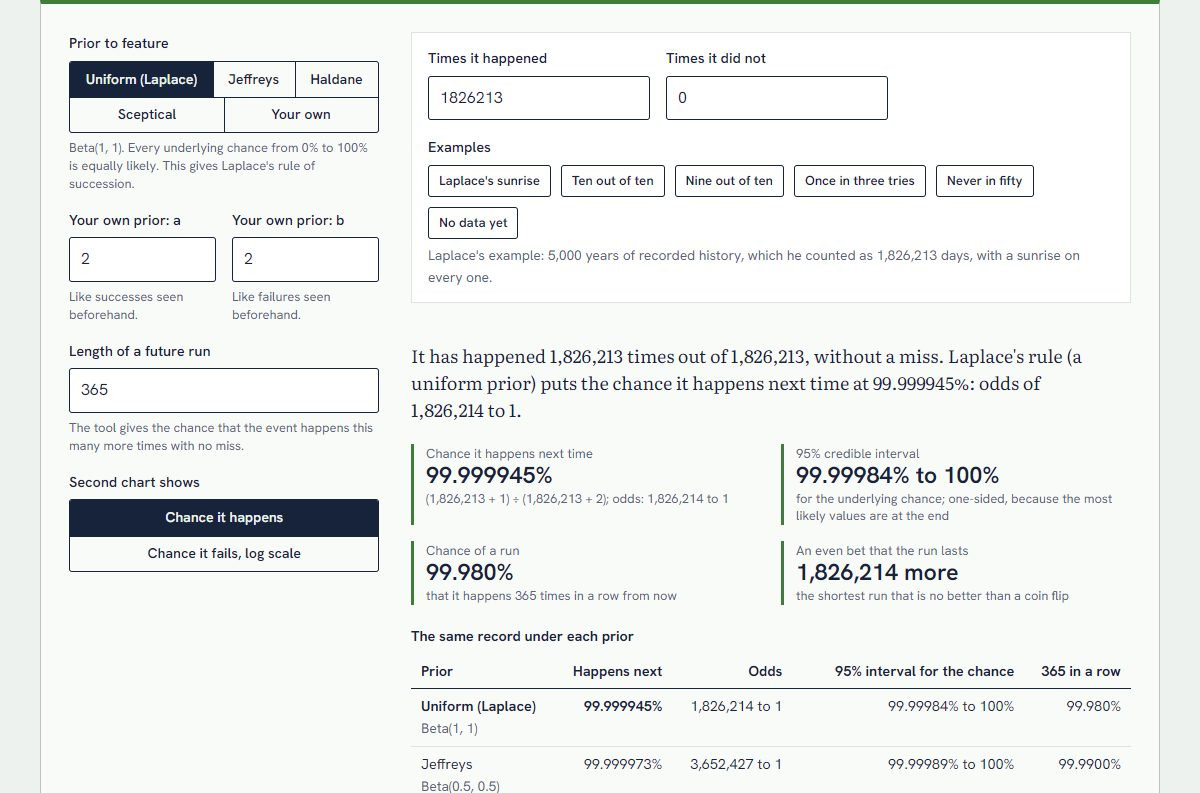
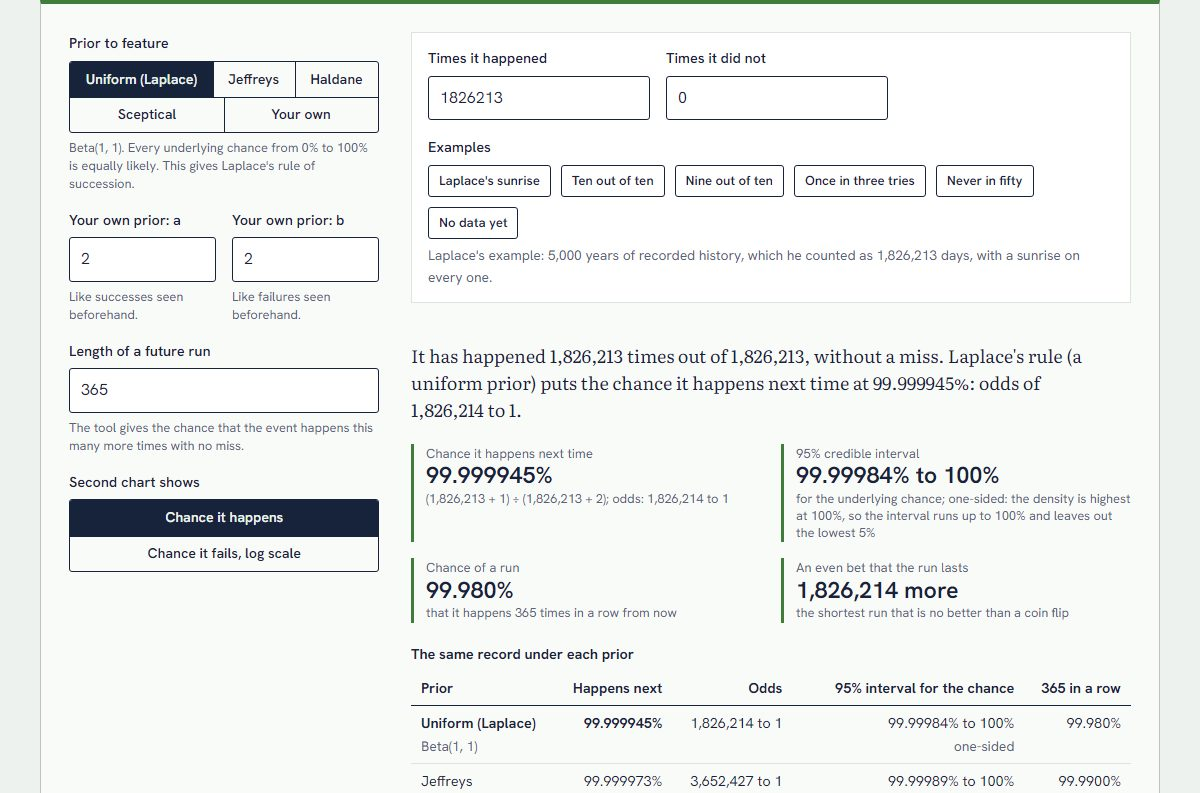
Review project 30: exact long-run chances, state the interval rule, clearer extremes

diff --git a/365projects/30/app.js b/365projects/30/app.js
@@ -5,28 +5,51 @@ import { PRIORS, EXAMPLES, MAX_COUNT, MAX_PRIOR, MAX_RUN, problem, betaQuantile,
 mount();
 
 /* ---------- formatting ---------- */
-/** A chance with enough decimals to stay distinct from 0% and 100%. */
-function pct(p) {
+/** A chance with enough decimals to stay distinct from 0% and 100%, and at least `min` of them. */
+function pct(p, min = 0) {
   if (p == null || !Number.isFinite(p)) return "–";
   if (p === 0 || p === 1) return p ? "100%" : "0%";
   const q = Math.min(p, 1 - p) * 100;
   if (q < 1e-8) return p < 0.5 ? "under 0.00000001%" : "over 99.99999999%";
-  return `${fmt.num(p * 100, q >= 1 ? 1 : Math.ceil(-Math.log10(q)) + 1)}%`;
+  return `${fmt.num(p * 100, Math.max(min, q >= 1 ? 1 : Math.ceil(-Math.log10(q)) + 1))}%`;
 }
 const big = (x) => (x >= 1e12 ? fmt.compact(x) : x >= 1000 ? fmt.int(Math.round(x)) : fmt.sig(x, 3));
 function oddsText(o) {
   if (o == null) return "–";
   if (o === Infinity) return "certain";
   if (o === 0) return "impossible";
-  if (o === 1) return "evens";
-  return o > 1 ? `${big(o)} to 1` : `${big(1 / o)} to 1 against`;
+  const text = big(o >= 1 ? o : 1 / o);
+  if (text === "1") return o === 1 ? "evens" : "about evens"; // never "1 to 1 against"
+  return o > 1 ? `${text} to 1` : `${text} to 1 against`;
 }
 const betaName = (p) => `Beta(${fmt.sig(p.a, 4)}, ${fmt.sig(p.b, 4)})`;
 const times = (k) => (k === 1 ? "once" : `${fmt.int(k)} times`);
 function intervalText(r) {
-  if (r.interval) return `${pct(r.interval.lo)} to ${pct(r.interval.hi)}`;
-  if (r.next == null) return "–";
-  return r.B === 0 ? "none: all the weight is on 100%" : "none: all the weight is on 0%";
+  if (!r.interval) return r.next == null ? "–" : r.B === 0 ? "none: all the weight is on 100%" : "none: all the weight is on 0%";
+  const { lo, hi, kind } = r.interval;
+  // Enough decimals to tell the two ends apart (two figures of the interval's width), so a narrow interval is never
+  // printed as "50.0% to 50.0%".
+  const width = (hi - lo) * 100;
+  const d = width > 0 && width < 10 ? Math.min(10, Math.ceil(-Math.log10(width)) + 1) : 0;
+  // An end too close to 100% or 0% for the computer to tell apart from it is still not 100% or 0%.
+  const low = kind === "upper" && lo === 1 ? "over 99.99999999%" : pct(lo, d);
+  const high = kind === "lower" && hi === 0 ? "under 0.00000001%" : pct(hi, d);
+  return `${low} to ${high}`;
+}
+/** How the interval was cut, said exactly: it is central unless the density is highest at one end alone. */
+const intervalRule = (r) => (r.interval.kind === "central" ? "central: 2.5% is left out at each end"
+  : r.interval.kind === "upper" ? "one-sided: the density is highest at 100%, so the interval runs up to 100% and leaves out the lowest 5%"
+    : "one-sided: the density is highest at 0%, so the interval runs down to 0% and leaves out the highest 5%");
+/** A run's chance. A positive chance too small for the computer to hold is shown as small, not as 0%. */
+const runText = (r) => pct(r.run === 0 && r.A > 0 ? Number.MIN_VALUE : r.run);
+/** The even-bet run length and the line under it. Lengths past ten million are good to about three figures. */
+function evenText(r) {
+  const e = r.evenRun;
+  if (e == null) return ["–", ""];
+  if (e === Infinity && r.B === 0) return ["for ever", "no run is long enough to become an even bet"];
+  if (e === Infinity) return ["over 10¹⁵ more", "the shortest run that is no better than a coin flip is longer than a thousand million million, and the page stops counting there"];
+  if (e === 1) return ["1 more", "the very next time is already no better than a coin flip"];
+  return [e >= 1e7 ? `about ${fmt.compact(e)} more` : `${fmt.int(e)} more`, "the shortest run that is no better than a coin flip"];
 }
 
 const first = EXAMPLES[0];
@@ -78,6 +101,7 @@ const tRun = stat("Chance of a run");
 const tEven = stat("An even bet that the run lasts");
 const tiles = [tNext, tInterval, tRun, tEven];
 const tableBox = el("div");
+const tableNote = el("p", { class: "small muted", text: "Each interval is the central 95% of that prior's belief about the underlying chance, with 2.5% left out at each end, unless the density is highest at 100% alone or at 0% alone. Those intervals are marked “one-sided”: they run to that end and leave out 5% at the other, so that the most probable values are never the ones left out." });
 const densityBox = el("div");
 const densityNote = el("p", { class: "small muted" });
 const convBox = el("div");
@@ -85,7 +109,7 @@ const convNote = el("p", { class: "small muted" });
 
 const top = el("div", { class: "out lab-top" },
   el("div", { class: "panel record" }, el("div", { class: "pair" }, fields.s.el, fields.f.el), el("div", { class: "field" }, el("div", { class: "lab" }, el("span", { text: "Examples" })), examples, exampleNote)),
-  message, verdict, el("div", { class: "stats" }, tiles.map((t) => t.el)), tableBox);
+  message, verdict, el("div", { class: "stats" }, tiles.map((t) => t.el)), el("div", {}, tableBox, tableNote));
 const controls = el("div", { class: "controls" }, priorSeg.el, el("div", { class: "pair" }, fields.a.el, fields.b.el), fields.m.el, viewSeg.el);
 const rest = el("div", { class: "out lab-rest" }, el("div", {}, densityBox, densityNote), el("div", {}, convBox, convNote));
 $("#app").append(el("div", { class: "lab-grid" }, top, controls, rest));
@@ -98,6 +122,7 @@ function blank(text) {
   verdict.textContent = "";
   for (const t of tiles) t.set("–", "");
   tableBox.replaceChildren();
+  tableNote.hidden = true;
   rest.hidden = true;
 }
 
@@ -106,7 +131,7 @@ function update() {
   const bad = problem(state);
   if (bad) return blank(bad);
   message.replaceChildren();
-  rest.hidden = false;
+  rest.hidden = tableNote.hidden = false;
 
   const n = s + f;
   const list = priors();
@@ -123,17 +148,16 @@ function update() {
   verdict.textContent = featured.next == null
     ? `${record} ${who} gives no answer here: the formula comes to 0 ÷ 0. It has nothing to say until there is data.`
     : !featured.proper
-      ? `${record} ${who} puts the chance it happens next time at ${pct(featured.next)}. With no weight held back for the outcome that has not been seen, it treats the record as proof.`
+      ? `${record} ${who} puts the chance it happens next time at ${pct(featured.next)}. ${n === 0 ? "It gives the other outcome no weight at all, so it is certain before anything has been observed." : "With no weight held back for the outcome that has not been seen, it treats the record as proof."}`
       : `${record} ${who} puts the chance it happens next time at ${pct(featured.next)}${featured.odds >= 1000 || featured.odds <= 0.001 ? `: odds of ${oddsText(featured.odds)}` : ""}.`;
 
   /* Headline numbers for the featured prior. */
   tNext.set(pct(featured.next), featured.next == null ? "0 ÷ 0" : `(${fmt.int(s)} + ${fmt.sig(fp.a, 4)}) ÷ (${fmt.int(n)} + ${fmt.sig(fp.a + fp.b, 4)}); odds: ${oddsText(featured.odds)}`);
   tInterval.set(featured.interval ? intervalText(featured) : "–", featured.interval
-    ? `for the underlying chance${featured.interval.kind === "central" ? "" : "; one-sided, because the most likely values are at the end"}`
+    ? `for the underlying chance; ${intervalRule(featured)}`
     : featured.next == null ? "" : "this is not a proper distribution, so it has no interval");
-  tRun.set(pct(featured.run), `that it happens ${times(m)} in a row from now`);
-  tEven.set(featured.evenRun == null ? "–" : featured.evenRun === Infinity ? "for ever" : `${big(featured.evenRun)} more`,
-    featured.evenRun == null ? "" : featured.evenRun === Infinity ? "no run is long enough to become an even bet" : featured.evenRun === 1 ? "the very next time is already no better than a coin flip" : "the shortest run that is no better than a coin flip");
+  tRun.set(runText(featured), `that it happens ${times(m)} in a row from now`);
+  tEven.set(...evenText(featured));
 
   /* Every prior side by side. */
   const mark = (r, text) => (r === featured ? el("strong", { text }) : text);
@@ -145,7 +169,8 @@ function update() {
     ],
     rows: results.map((r) => ({
       prior: el("span", {}, mark(r, r.prior.label), el("br"), el("span", { class: "small muted", text: betaName(r.prior) })),
-      next: mark(r, pct(r.next)), odds: oddsText(r.odds), interval: intervalText(r), run: pct(r.run),
+      next: mark(r, pct(r.next)), odds: oddsText(r.odds), run: runText(r),
+      interval: r.interval && r.interval.kind !== "central" ? el("span", {}, intervalText(r), el("br"), el("span", { class: "small muted", text: "one-sided" })) : intervalText(r),
     })),
   }));
 

diff --git a/365projects/30/index.html b/365projects/30/index.html
@@ -67,11 +67,11 @@
       <h3>Haldane's prior</h3>
       <p>Beta(0, 0) is the limit of ever weaker priors and is not a probability distribution: its density, 1 ÷ (<var>p</var>(1 − <var>p</var>)), has infinite area. The posterior Beta(<var>s</var>, <var>f</var>) becomes a real distribution only once the record holds at least one success and one failure. Before that the tool reports the limiting value of the formula, <var>s</var> ÷ <var>n</var>, which is 100% after any unbroken run and 0 ÷ 0 with no data, and it shows no interval and no curve. This is the prior that takes a single sunrise as proof that the sun always rises.</p>
       <h3>The credible interval</h3>
-      <p>The interval is the range that holds 95% of the posterior. Its ends are quantiles of the Beta distribution, found by bisection on the regularised incomplete beta function, which the tool evaluates with a continued fraction. Normally 2.5% is left out at each end. When the posterior density is highest at 0% or at 100%, as it is after an unbroken run, an equal-tailed interval would leave out the most probable values, so the tool gives the one-sided interval that includes that end. For an unbroken run of <var>n</var> under the uniform prior the interval runs from 0.05<sup>1 ÷ (<var>n</var> + 1)</sup> to 100%. For an event that has never happened in <var>n</var> trials it runs from 0% up to 1 − 0.05<sup>1 ÷ (<var>n</var> + 1)</sup>, which is close to the "rule of three", 3 ÷ <var>n</var>.</p>
+      <p>The interval is the range that holds 95% of the posterior. Its ends are quantiles of the Beta distribution, found by bisection on the regularised incomplete beta function, which the tool evaluates with a continued fraction. Normally the interval is central: 2.5% is left out at each end. The exception is a posterior whose density is highest at 100% alone or at 0% alone, which is the case when it never falls as <var>p</var> rises (<var>A</var> ≥ 1 and <var>B</var> ≤ 1, writing <var>A</var> = <var>a</var> + <var>s</var> and <var>B</var> = <var>b</var> + <var>f</var>) or never rises (<var>A</var> ≤ 1 and <var>B</var> ≥ 1), as after an unbroken run under the uniform or Jeffreys' prior. A central interval would then leave out the most probable values, so the tool gives the one-sided interval that runs to that end and leaves out 5% at the other, and says so beside the interval. The flat Beta(1, 1) has no highest point and a density that climbs towards both ends (<var>A</var> and <var>B</var> both below 1, such as Jeffreys' prior before any data) has two, so both keep the central interval. For an unbroken run of <var>n</var> under the uniform prior the interval runs from 0.05<sup>1 ÷ (<var>n</var> + 1)</sup> to 100%. For an event that has never happened in <var>n</var> trials it runs from 0% up to 1 − 0.05<sup>1 ÷ (<var>n</var> + 1)</sup>, which is close to the "rule of three", 3 ÷ <var>n</var>.</p>
       <h3>A run of successes</h3>
       <p>Write <var>A</var> = <var>a</var> + <var>s</var> and <var>B</var> = <var>b</var> + <var>f</var>. Each success raises the chance of the next, so the probability that the next <var>m</var> trials all succeed is a product of <var>m</var> different terms:</p>
       <p class="eq">P(<var>m</var> in a row) = <var>A</var> ÷ (<var>A</var> + <var>B</var>) × (<var>A</var> + 1) ÷ (<var>A</var> + <var>B</var> + 1)<br>&nbsp;&nbsp;&nbsp; × … × (<var>A</var> + <var>m</var> − 1) ÷ (<var>A</var> + <var>B</var> + <var>m</var> − 1)</p>
-      <p>The tool computes it from log-gamma functions so that runs of a billion are no harder than runs of ten. Under Laplace's rule after an unbroken run it simplifies to (<var>n</var> + 1) ÷ (<var>n</var> + <var>m</var> + 1), which reaches one half at <var>m</var> = <var>n</var> + 1: a run is an even bet to last about as long again as it already has. The last tile reports that length for the featured prior. The product falls towards zero as <var>m</var> grows, so no finite record makes "it will always happen" probable under any of these priors.</p>
+      <p>The tool computes it from log-gamma functions so that runs of a billion are no harder than runs of ten; the answer is good to about eight significant figures. A chance too small for the computer to hold is shown as "under 0.00000001%", never as zero. Under Laplace's rule after an unbroken run it simplifies to (<var>n</var> + 1) ÷ (<var>n</var> + <var>m</var> + 1), which reaches one half at <var>m</var> = <var>n</var> + 1: a run is an even bet to last about as long again as it already has. The last tile reports that length for the featured prior: exactly up to ten million, to three figures beyond that, and as "over 10<sup>15</sup>" once the search passes a thousand million million. The product falls towards zero as <var>m</var> grows, so no finite record makes "it will always happen" probable under any of these priors.</p>
       <h3>The charts</h3>
       <p>The first chart draws the posterior density for every prior that gives a proper one, on an axis that runs from the lowest 0.1% point to the highest 99.9% point among them. For the sunrise that is a window about a thousandth of a percentage point wide, just below 100%. The second chart recomputes P(next) for records running from 1 observation to at least ten times the length of yours, keeping your success rate fixed. Its other view shows the chance of failure, (<var>b</var> + failures) ÷ (<var>a</var> + <var>b</var> + observations), on a log scale. After an unbroken run of <var>k</var> that is <var>b</var> ÷ (<var>a</var> + <var>b</var> + <var>k</var>), so two priors' answers stay in the ratio of their <var>b</var>s however large <var>k</var> becomes. That is why the lines run parallel and never meet.</p>
     </section>
@@ -104,13 +104,14 @@
       <h2>Sources</h2>
       <ul class="refs">
         <li>Hume, D. (1748). <em>An Enquiry Concerning Human Understanding</em>, section IV.</li>
-        <li>Laplace, P.-S. (1814). <em>Essai philosophique sur les probabilités</em>. In English as <em>A Philosophical Essay on Probabilities</em>, translated by F. W. Truscott and F. L. Emory. The source of the sunrise example and its 1,826,213 days.</li>
+        <li>Laplace, P.-S. (1814). <em>Essai philosophique sur les probabilités</em>. In English as <em>A Philosophical Essay on Probabilities</em>, translated by F. W. Truscott and F. L. Emory (Wiley, 1902). The source of the sunrise example and its 1,826,213 days.</li>
         <li>Russell, B. (1912). <em>The Problems of Philosophy</em>, chapter 6, "On induction".</li>
-        <li>Haldane, J. B. S. (1932). A note on inverse probability. <em>Proceedings of the Cambridge Philosophical Society</em>.</li>
-        <li>de Finetti, B. (1937). La prévision: ses lois logiques, ses sources subjectives. <em>Annales de l'Institut Henri Poincaré</em>, 7, 1-68.</li>
-        <li>Jeffreys, H. (1939). <em>Theory of Probability</em>. Oxford University Press.</li>
+        <li>Haldane, J. B. S. (1932). A note on inverse probability. <em>Mathematical Proceedings of the Cambridge Philosophical Society</em>, 28(1), 55-61.</li>
+        <li>de Finetti, B. (1937). La prévision: ses lois logiques, ses sources subjectives. <em>Annales de l'Institut Henri Poincaré</em>, 7(1), 1-68.</li>
+        <li>Jeffreys, H. (1939). <em>Theory of Probability</em>. Clarendon Press, Oxford.</li>
+        <li>Jeffreys, H. (1946). An invariant form for the prior probability in estimation problems. <em>Proceedings of the Royal Society of London, Series A</em>, 186(1007), 453-461. The rule that gives Beta(½, ½) for a chance.</li>
         <li>Goodman, N. (1955). <em>Fact, Fiction, and Forecast</em>. Harvard University Press.</li>
-        <li>Zabell, S. L. (1989). The rule of succession. <em>Erkenntnis</em>, 31, 283-321.</li>
+        <li>Zabell, S. L. (1989). The rule of succession. <em>Erkenntnis</em>, 31(2-3), 283-321.</li>
       </ul>
     </section>
   </main>

diff --git a/365projects/30/logic.js b/365projects/30/logic.js
@@ -102,13 +102,18 @@ export function betaQuantile(q, a, b) {
 
 /**
  * A credible interval for the underlying chance under Beta(A, B). Central (equal tails), except when the
- * density is highest at an end of the range: then the interval is one-sided and includes that end, so
+ * density is highest at just one end of the range: then the interval is one-sided and includes that end, so
  * that it never leaves out the most probable values. kind: "central" | "upper" | "lower".
+ *
+ * The density p^(A−1) (1−p)^(B−1) never falls as p rises when A >= 1 and B <= 1 (so it is highest at 100%), and
+ * never rises when A <= 1 and B >= 1 (highest at 0%). The flat Beta(1, 1) has no highest point, and a density that
+ * climbs towards both ends (A and B both below 1) has two, so both keep the central interval.
  */
 export function credible(A, B, level = 0.95) {
   if (!(A > 0 && B > 0)) return null;
-  if (B <= 1 && A > 1) return { lo: betaQuantile(1 - level, A, B), hi: 1, kind: "upper" };
-  if (A <= 1 && B > 1) return { lo: 0, hi: betaQuantile(level, A, B), kind: "lower" };
+  const flat = A === 1 && B === 1;
+  if (!flat && A >= 1 && B <= 1) return { lo: betaQuantile(1 - level, A, B), hi: 1, kind: "upper" };
+  if (!flat && A <= 1 && B >= 1) return { lo: 0, hi: betaQuantile(level, A, B), kind: "lower" };
   return { lo: betaQuantile((1 - level) / 2, A, B), hi: betaQuantile((1 + level) / 2, A, B), kind: "central" };
 }
 
@@ -120,7 +125,11 @@ export function runProbability(A, B, m) {
   if (!(A + B > 0)) return null;
   if (m === 0 || B === 0) return 1;
   if (A === 0) return 0;
-  return Math.exp(lnGammaRatio(A, B) - lnGammaRatio(A + m, B));
+  // Γ(A + m) Γ(A + B) / (Γ(A) Γ(A + B + m)) is the same with m and B exchanged. Taking the smaller of the two as the
+  // step keeps the log-gamma differences small: with 10^8 failures on record and m = 1 the other order subtracts two
+  // numbers near 10^9 and is out in the seventh figure, enough to call an exact 50% chance "under a half".
+  const d = Math.min(m, B), e = Math.max(m, B);
+  return Math.exp(lnGammaRatio(A, d) - lnGammaRatio(A + e, d));
 }
 
 /**
